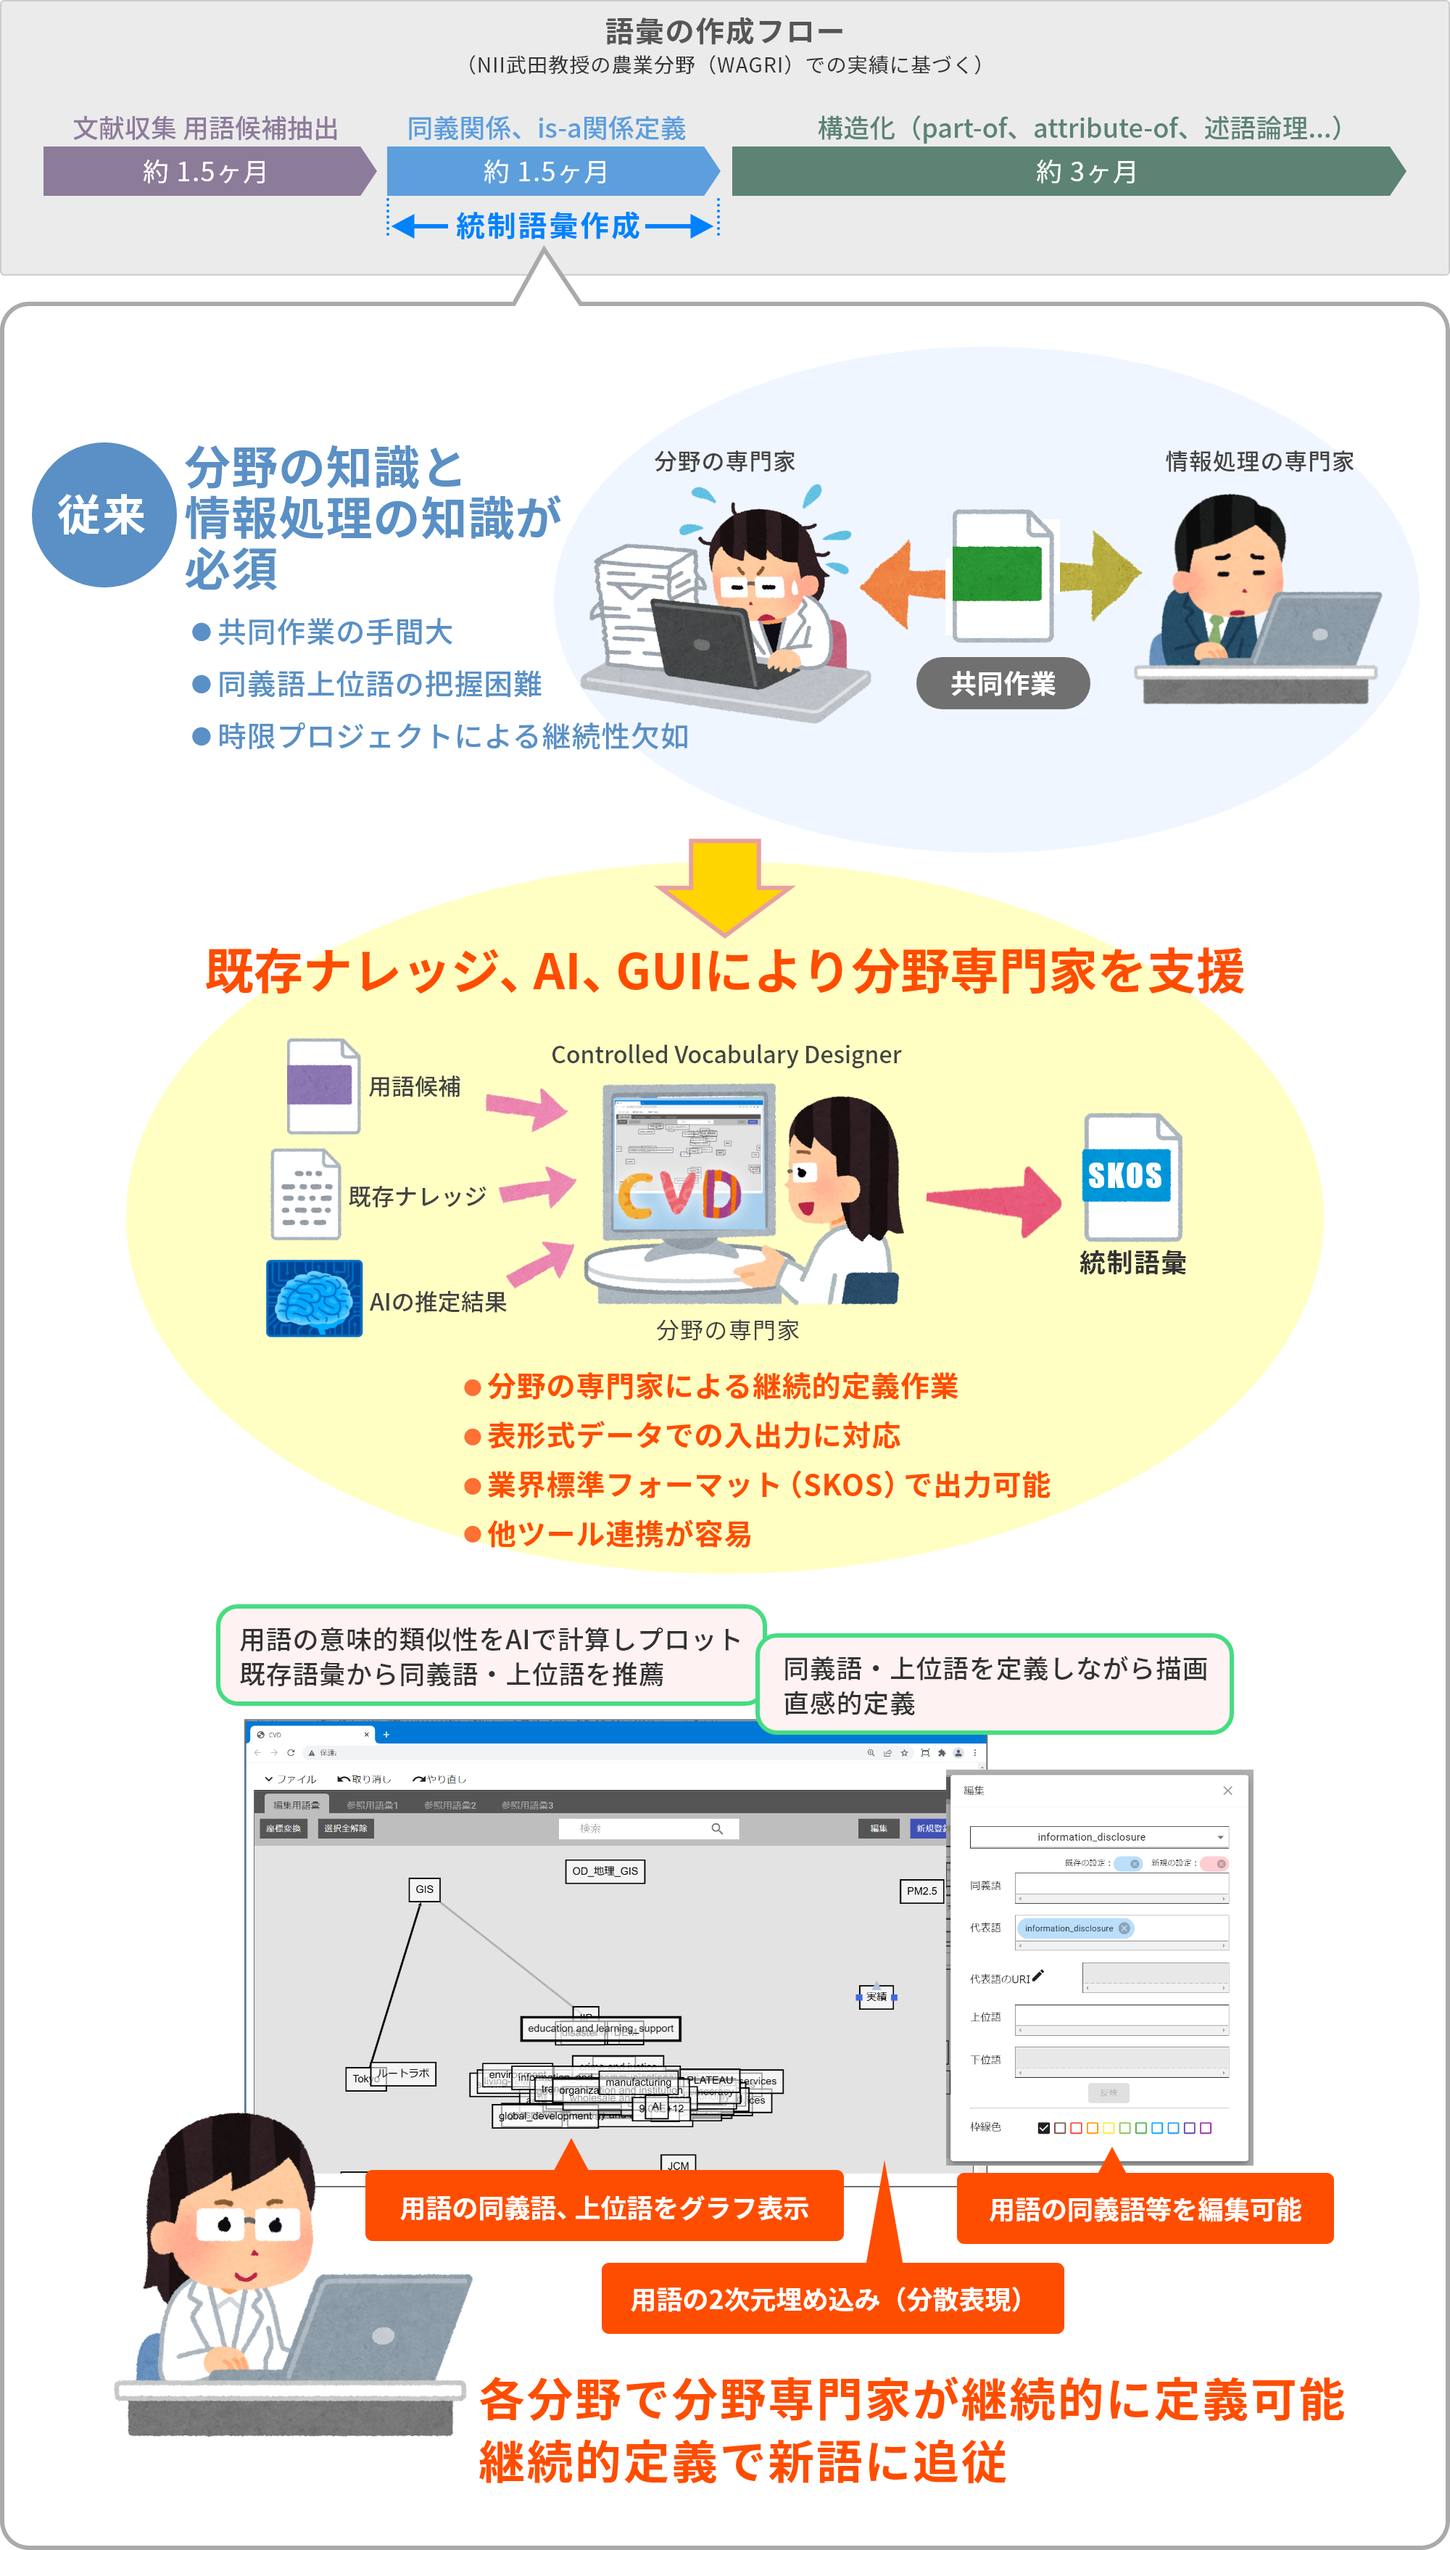
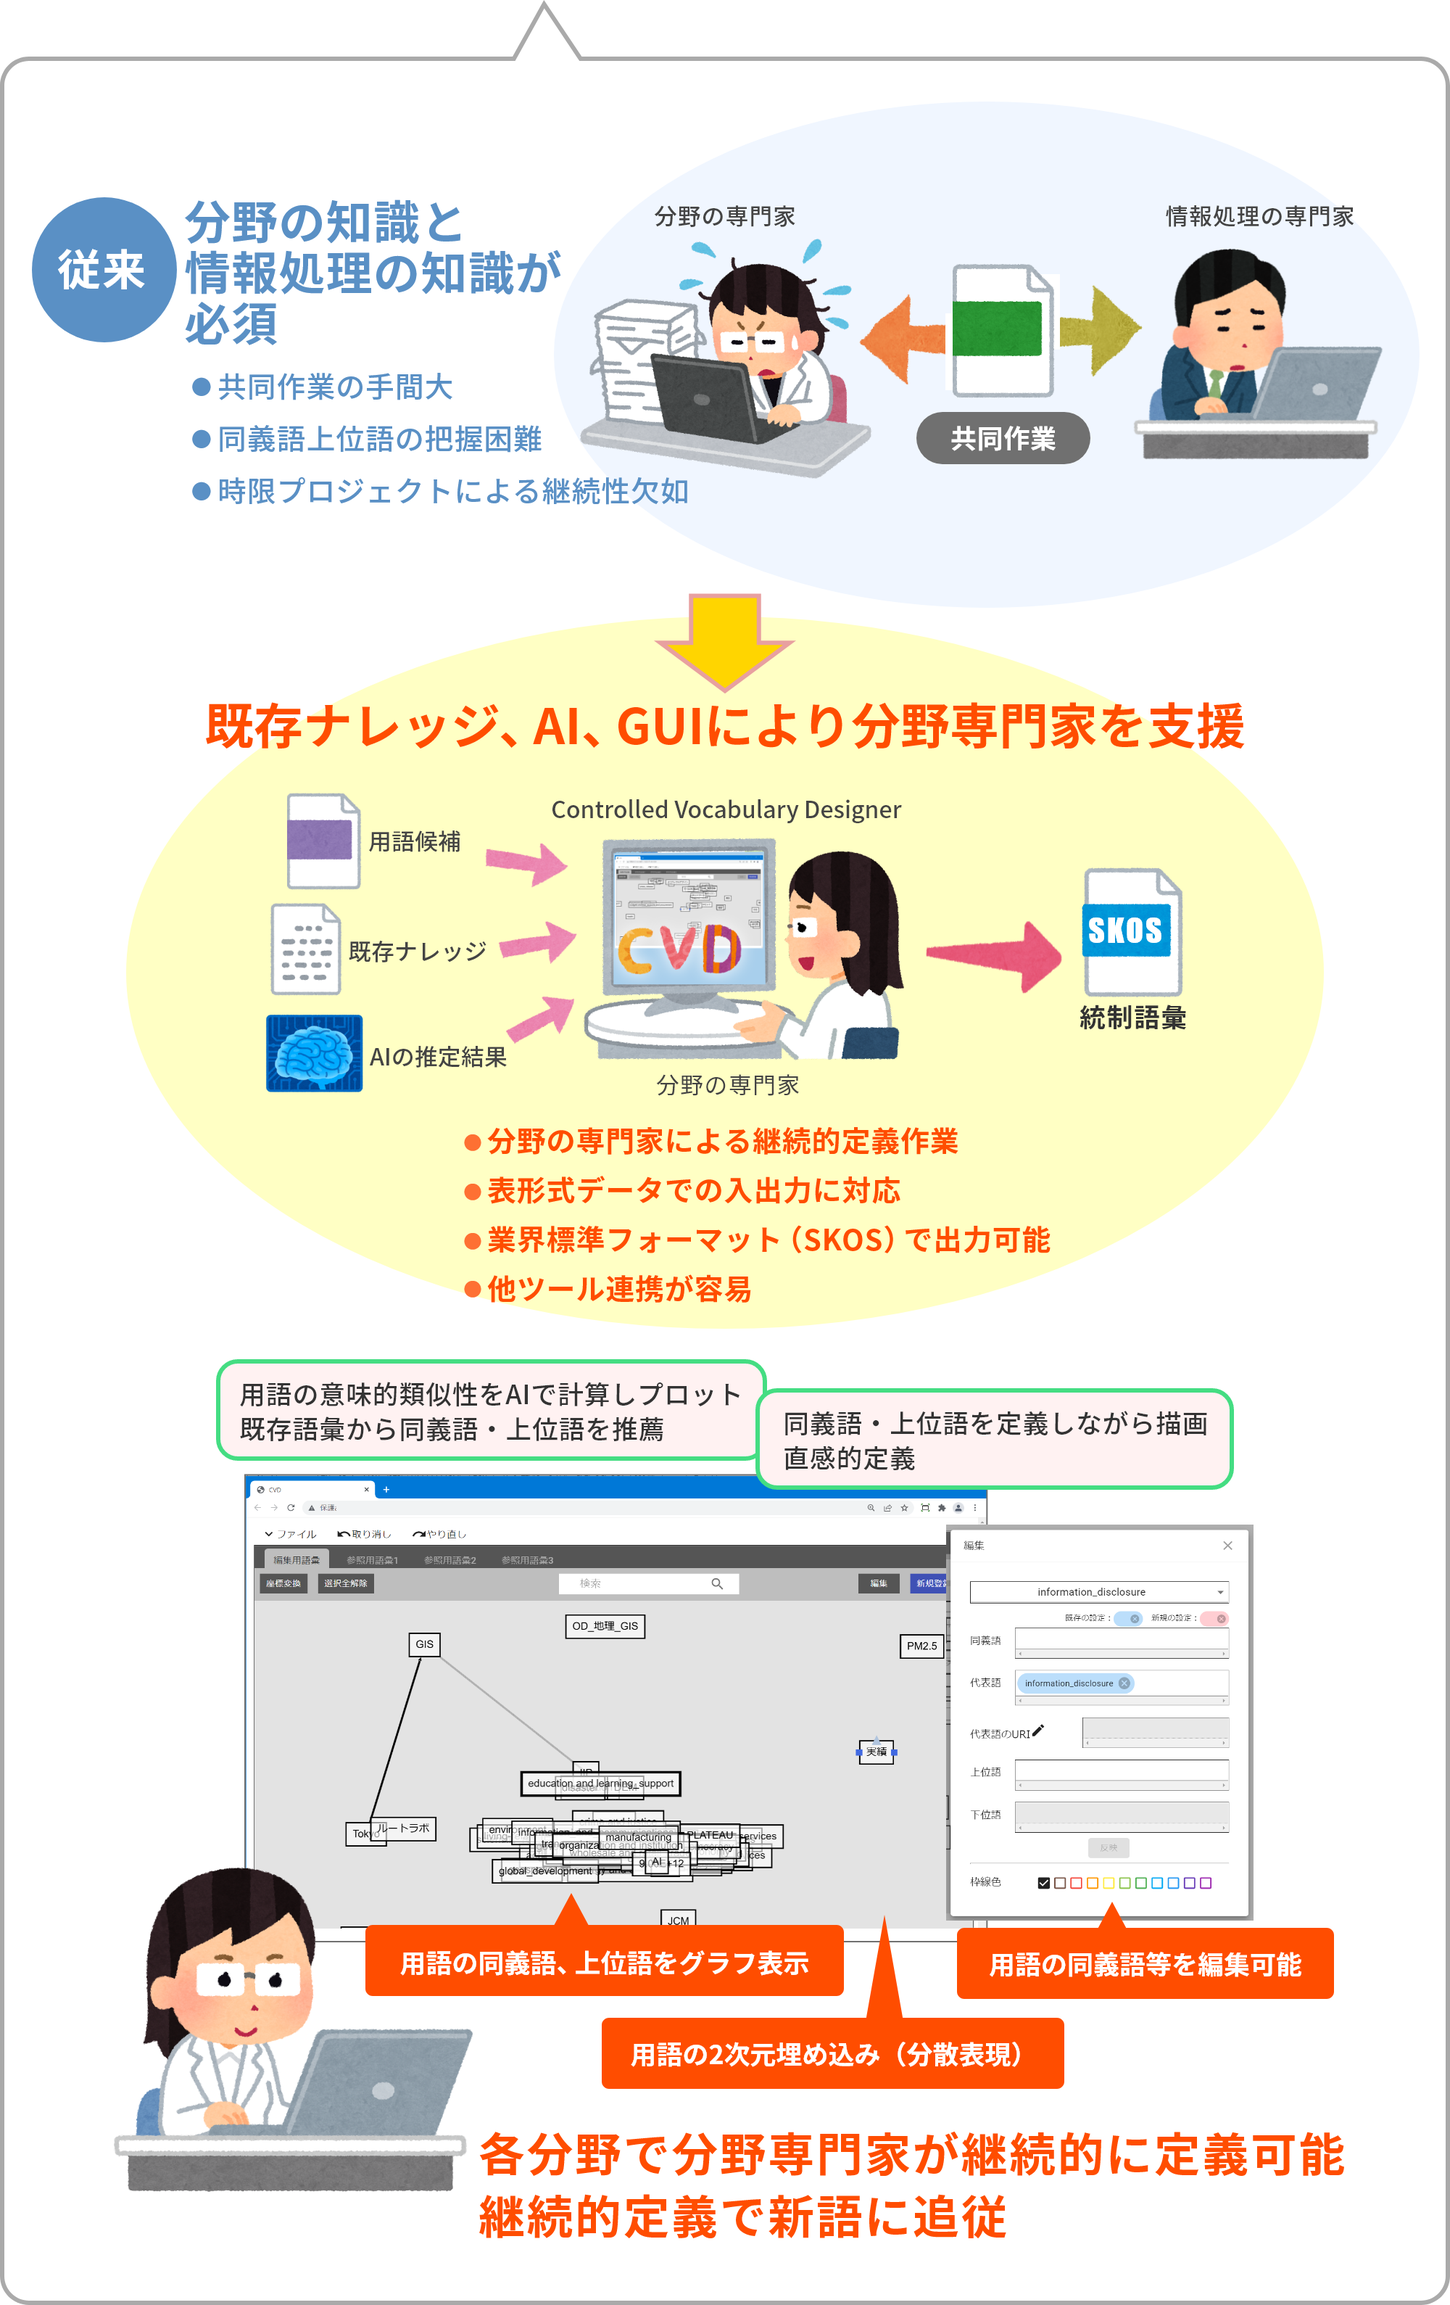
Add files via upload

diff --git a/docs/css/index_style.css b/docs/css/index_style.css
@@ -18,7 +18,7 @@ body, html {font-size: 14px;}
 }
 .bgimg-1 {
     background-image: url("../images/index_bg.png");
-    min-height: 75vh;
+    min-height: 70vh;
     background-color: #EBEBEB;
 }
 /************ headerロゴの設定 ************/
@@ -31,7 +31,7 @@ body, html {font-size: 14px;}
 
 .content{
     background-color:#fff;
-    padding:40px 0px 40px;
+    padding:10vh 0px 10vh;
     text-align:center;
 }
 .content h1 {
@@ -44,7 +44,7 @@ body, html {font-size: 14px;}
 .content p {
     font-size: 1.8vw;
     line-height: 2.0;
-    margin-bottom: 30px;
+    margin-bottom: 2em;
 }
 @media screen and (min-width: 1200px) {
     .content h1 {font-size: 2.8rem;}
@@ -59,6 +59,83 @@ body, html {font-size: 14px;}
     width: 90%;
     max-width: 1000px;
 }
+
+.content1 {padding-top: 0;}
+.content1 h1 {margin-top: 7vh;}
+
+#flowchart {
+    background-color: #EBEBEB;
+    border: 1px #CCCCCC solid;
+    margin: 0 auto;
+    width: 90%;
+    max-width: 900px;
+    padding: 1%;
+}
+#flowchart h2{font-size: 1.7vw;}
+#flowchart h2 + p {
+    font-size: 1.3vw;
+    line-height: 1.1;
+    margin-bottom: 1em;
+}
+#flowchart dl {
+    font-size: 1.2vw;
+    font-weight: 600;
+    text-align: center;
+    list-style: none;
+    margin: 0 1.4em 0 0;
+    padding: 0;
+    display: inline-block;
+    width: 22%;
+    vertical-align: top;
+}
+#flowchart dl dt, #flowchart dl dd {
+    margin: 0;
+    padding: 0;
+}
+#flowchart dt+dd {
+    background-color: #bcbcbc;
+    color: #fff;
+    position: relative;
+    height: 2em;
+    line-height: 2.1em;
+}
+#flowchart dt+dd::after {
+    content: "";
+    position: absolute;
+    top: 0;
+    right: -2em;
+    border: 1em solid transparent;
+    border-left: 1em solid #bcbcbc;
+}
+#flowchart dl#flow1 {color:#8D7B9A;}
+#flowchart dl#flow2 {color:#5D9EDD;}
+#flowchart dl#flow3 {
+    width: 44%;
+    color:#5C8373;
+}
+#flowchart dl#flow1 dt+dd {background-color:#8D7B9A;}
+#flowchart dl#flow1 dt+dd::after {border-left-color: #8D7B9A;}
+#flowchart dl#flow2 dt+dd {background-color:#5D9EDD;}
+#flowchart dl#flow2 dt+dd::after {border-left-color: #5D9EDD;}
+#flowchart dl#flow3 dt+dd {background-color:#5C8373;}
+#flowchart dl#flow3 dt+dd::after {border-left-color: #5C8373;}
+#flowchart dd#flowArrow {
+    margin-right: -0.8em;
+    margin-left: -0.1em;
+    margin-top: 0.2em;
+    background-image: url(../images/flow_arrow.png);
+    background-repeat: no-repeat;
+    background-size: contain;
+    padding-top: 0.3em;
+}
+
+@media screen and (min-width: 1200px) {
+    #flowchart h2{font-size: 1.4rem;}
+    #flowchart h2 + p {font-size: 1rem;}
+    #flowchart dl {font-size: 1.2rem;}
+}
+
+.content1 figure {margin-top: -1vw;}
 
 .content2 {background-color: #f3f3f3;}
 #Docker {
@@ -106,6 +183,14 @@ body, html {font-size: 14px;}
 .Button a img {
     width: 1em;
     margin-right: 0.5em;
+}
+.sticky {
+    background-color: #f3f3f3;
+    margin: 0vh auto;
+    padding: 0;
+    position: sticky;
+    top: -1px;
+    z-index: 10;
 }
 
 .bgimg-2 {}

diff --git a/docs/css/help_style.css b/docs/css/help_style.css
@@ -50,7 +50,7 @@ nav ul {
     text-align: center;
     width: 100%;
     position: absolute;
-    bottom: 5px;
+    bottom: 15px;
 }
 nav ul li{
     margin: 0;
@@ -66,7 +66,7 @@ nav ul li b{
     nav ul {position: relative; margin-top: 10px;}
 }
 
-/************ コンテンツブロックの設定 ************/
+/*************** ここからコンテンツブロックの設定 ***************/
 
 #Content {
     width: calc(100% - 200px);
@@ -74,9 +74,9 @@ nav ul li b{
     text-align: center;
 }
 
-/************ コンテンツのフォントサイズを変更するには以下を調整 ************/
+/*** コンテンツのフォントサイズを変更するには以下を調整 ***/
 body, html {font-size: 14px;}
-/************************************************************************/
+/******************************************************/
 
 .section{
     padding: 2.5vw;
@@ -197,6 +197,61 @@ body, html {font-size: 14px;}
     line-height: 1;
     color: #FF0000;
     margin: 0;
+}
+
+#Section06 .Img p#Text01 {
+    width: 37%;
+    color: #fff;
+    font-size: 1.7vw;
+    line-height: 1.4;
+    margin: 0;
+    background-color: #FF9170;
+    padding: 0.5em;
+    border-radius: 7px;
+    top: 70%;
+    z-index: 9;
+}
+#Section06 .Img #Text02,
+#Section06 .Img #Text03 {
+    color: #366999;
+    position: absolute;
+    width: 28%;
+    top: 0%;
+}
+#Section06 .Img #Text02 p ,
+#Section06 .Img #Text03 p {
+    font-size: 1.6vw;
+    font-weight: 500;
+    position: relative;
+    margin: 0.5em 0;
+    line-height: 1.4;
+}
+#Section06 .Img #Text02 > p:first-child ,
+#Section06 .Img #Text03 > p:first-child {
+    font-weight: 600;
+    margin-left: 1.2em;
+    margin-bottom: 0;
+}
+#Section06 .Img #Text02 > p:first-child:before {
+    content: "";
+    position: absolute;
+    top: 0.3em;
+    margin-left: -1.1em;
+    border: 0.4em solid #4169E1;
+}
+#Section06 .Img #Text03 > p:first-child:before {
+    content: "";
+    position: absolute;
+    top: -0.25em;
+    margin-left: -1.1em;
+    border: 0.45em solid transparent;
+    border-bottom: 0.9em solid #B0C4DE;
+}
+#Section06 .Img #Text02 {left: 40%;}
+#Section06 .Img #Text03 {right: 0%;}
+@media screen and (min-width: 1100px) {
+    #Section06 .Img p#Text01 {font-size: 1.6rem;}
+    #Section06 .Img #Text02 p , #Section06 .Img #Text03 p {font-size: 1.6rem;}
 }
 
 #Section09 ol {

diff --git a/docs/help.html b/docs/help.html
@@ -113,7 +113,18 @@
     <p>可視化画面内で、登録済みの用語にマウスポインタを合わせると、ポイントが３つ表示されます。このポイントから用語の関係線を引き出すことが可能です。</p>
     <p>ポイント上でマウスボタンを押し下げたまま、ドラッグすると関係線を引き出すことができます。他の用語と線を結ぶとダイアログが表示されるので、指示に従えば編集を完了することができます。</p>
     <div class="Img margin0">
-      <figure><img src="images/illst_6.png"></figure>
+      <p id="Text01">関係線を使えば、編集パネルを使わずに、同義語・上位語の設定が可能です。</p>
+      <figure><img src="images/illst_6-1.png"></figure>
+      <div id="Text02">
+        <p>同義語の関係線の起点</p>
+        <figure><img src="images/illst_6-2.png"></figure>
+        <p>同義語の関係線を、他の用語に結ぶ事で、同義関係を結ぶ事ができます。</p>
+      </div>
+      <div id="Text03">
+        <p>上位語の関係線の起点</p>
+        <figure><img src="images/illst_6-3.png"></figure>
+        <p>上位語の関係線を、他の用語に結ぶ事で、上下関係を結ぶ事ができます。</p>
+      </div>
     </div>
   </div>
 
@@ -180,8 +191,8 @@
 
   <div id="Section10" class="section">
     <h1>確定について</h1>
-    <p class="Emp">各用語の編集状態をロックしたり解除することが可能です。</p>
-    <p>編集操作タブパネルの「確定」をクリックすると、「確定」が「確定解除」に変わると同時に編集内容にロックがかかり、編集ができなくなります。</p>
+    <p class="Emp">各用語の編集状態をロックして誤操作を防ぐことが可能です。</p>
+    <p>用語を選択すると編集操作タブパネルの「確定」をクリックすると、「確定」が「確定解除」に変わると同時に編集内容にロックがかかり、編集ができなくなります。</p>
     <p>「確定解除」をクリックすると、編集可能な状態に戻ります。</p>
     <p>メニューの確定色を選択すると、確定した用語の背景色を指定した色に変更可能です。</p>
     <div class="Img margin0">

diff --git a/docs/index.html b/docs/index.html
@@ -16,7 +16,15 @@
   <figure id="Logo"><img src="images/cvd_img.png"></figure>
 </div>
 
-<div class="content">
+<div class="content content1">
+  <div class="content sticky">
+    <div class="Button">
+      <p><a href="https://github.com/fujitsu/controlled-vocabulary-designer" target="_blank" rel="noopener noreferrer"><img src="images/newwindow.svg">CVDのダウンロード</a></p>
+    </div>
+    <div class="Button">
+      <p><a href="help.html" target="_blank" rel="noopener noreferrer"><img src="images/newwindow.svg">CVDのヘルプを見る</a></p>
+    </div>
+  </div>
   <h1>統制語彙作成支援ツール CVD</h1>
   <p>組織や分野を超えてデータを連携するには、データを記述するために使用する用語や語彙の統一が必要となります。<br>
     通常、この統一化の作業には情報処理の専門的な知識のみならず、当該分野の専門的な知識が必要となり、<br>
@@ -29,6 +37,23 @@
     分野専門家のみで用語定義作業ができるため、<br>
     新語への追従も容易になりデータ連携のハードルを継続的に低減することに貢献します。
   </p>
+  <div id="flowchart">
+    <h2>語彙の作成フロー</h2>
+    <p>（NII武田教授の農業分野（WAGRI）での実績に基づく）</p>
+    <dl id="flow1">
+      <dt>文献収集 用語候補抽出</dt>
+      <dd>約 1.5ヶ月</dd>
+    </dl>
+    <dl id="flow2">
+      <dt>同義関係、is-a関係定義</dt>
+      <dd>約 1.5ヶ月</dd>
+      <dd id="flowArrow">統制語彙作成</dd>
+    </dl>
+    <dl id="flow3">
+      <dt>構造化（part-of、attribute-of、述語論理...）</dt>
+      <dd>約 3ヶ月</dd>
+    </dl>
+  </div>
   <figure><img src="images/img.png"></figure>
 </div>
 
